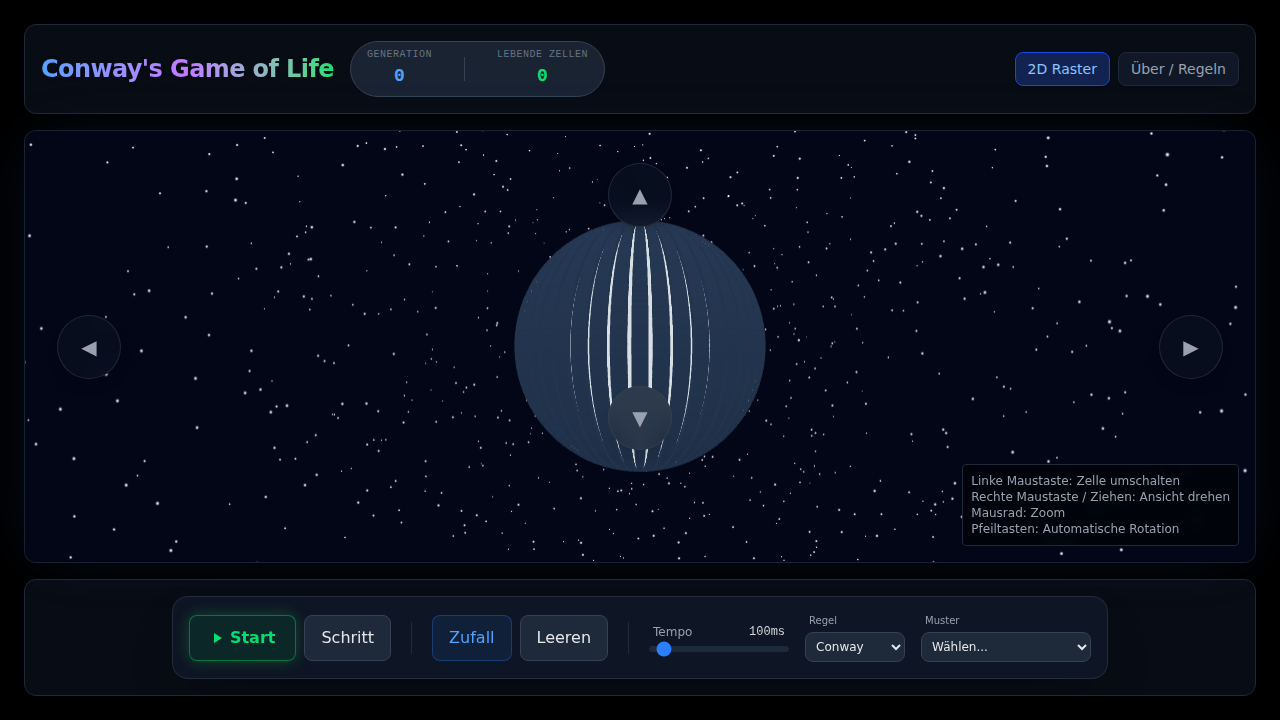
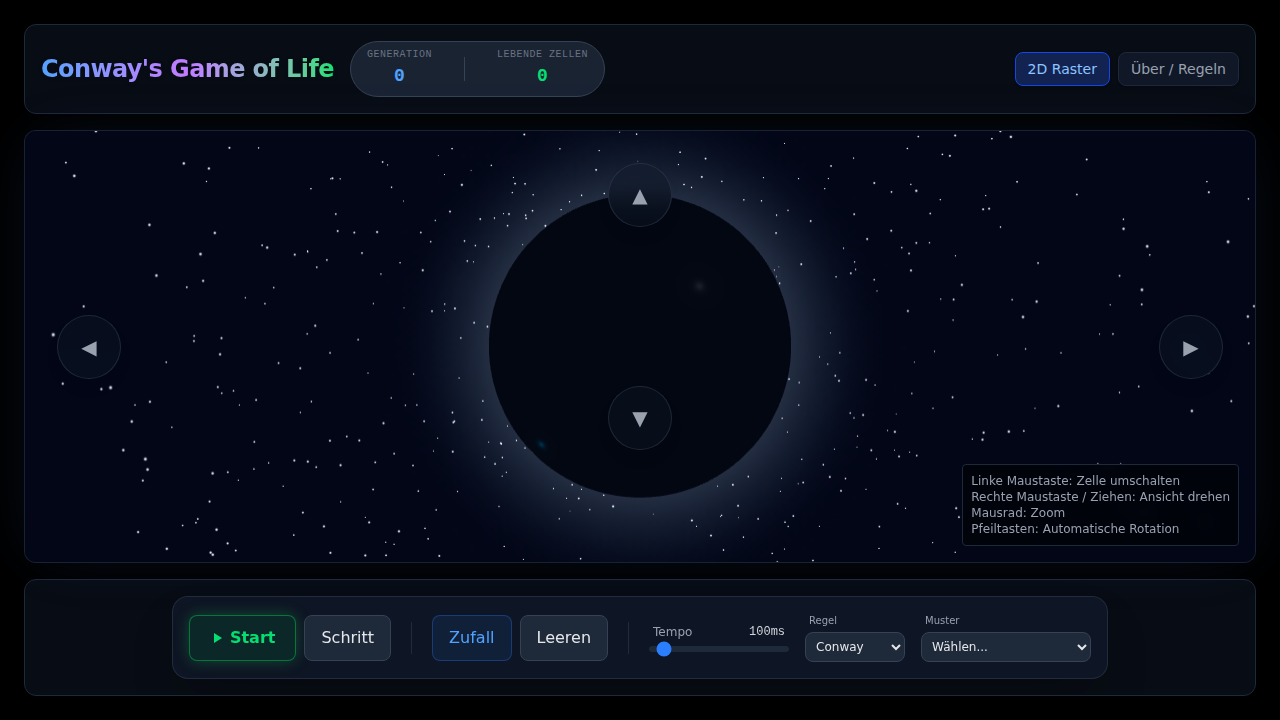
fix(sphere): refactor to textured sphere with backlight

Changed region(s): [[0.3438, 0.2139, 0.6562, 0.7333]]

diff --git a/game-of-life/src/components/SphereGrid.tsx b/game-of-life/src/components/SphereGrid.tsx
@@ -14,92 +14,70 @@ interface SphereGridProps {
 }
 
 const Sphere = ({ grid, setCell, velocity, rule }: SphereGridProps) => {
-  const meshRef = useRef<THREE.InstancedMesh>(null);
+  const meshRef = useRef<THREE.Mesh>(null);
   const groupRef = useRef<THREE.Group>(null);
 
   const rows = grid.length;
   const cols = rows > 0 ? grid[0].length : 0;
-  const count = rows * cols;
 
-  const tempObject = useMemo(() => new THREE.Object3D(), []);
-  const tempColor = useMemo(() => new THREE.Color(), []);
+  // Create Canvas for Texture
+  const { canvas, ctx, texture } = useMemo(() => {
+    const canvas = document.createElement('canvas');
+    // Set resolution to grid size for pixel-perfect mapping (with NearestFilter)
+    // We can upscale if we want smooth borders, but "Squares" implies sharp pixels.
+    // However, to draw grid lines, we might need higher resolution.
+    // User wants "connected raster". 1 pixel per cell = connected.
+    canvas.width = cols || 100;
+    canvas.height = rows || 50;
+    const ctx = canvas.getContext('2d', { alpha: false }); // No transparency needed for base
 
-  const radius = 2.5;
+    const texture = new THREE.CanvasTexture(canvas);
+    // Important for "Squares": Keep pixels sharp
+    texture.magFilter = THREE.NearestFilter;
+    texture.minFilter = THREE.NearestFilter;
+    texture.generateMipmaps = false; // Not needed for NearestFilter usually
 
-  // Box size calculation to approximate a continuous surface at the equator
-  // Circumference = 2 * PI * radius
-  // Cell width at equator = Circumference / cols
-  const boxSize = cols > 0 ? (2 * Math.PI * radius) / cols : 0.1;
+    return { canvas, ctx, texture };
+  }, [rows, cols]);
 
-  // Pattern detection logic
+  // Pattern Detection
   const patternGrid = useMemo(() => {
     if (!rule || rule.name !== 'Conway') return [];
-    // Limit detection to reasonable grid sizes for performance
     if (rows * cols > 50000) return [];
     return detectPatterns(grid);
   }, [grid, rows, cols, rule]);
 
-  // Initial Position & Scale Setup
+  // Draw to Canvas when Grid updates
   useEffect(() => {
-    if (!meshRef.current || rows === 0 || cols === 0) return;
+    if (!ctx || rows === 0 || cols === 0) return;
 
-    let idx = 0;
+    // Background (Dead Cells) - Dark slate blueish to match previous aesthetic
+    ctx.fillStyle = '#1e293b'; // slate-800
+    ctx.fillRect(0, 0, canvas.width, canvas.height);
+
+    // Live Cells
     for (let y = 0; y < rows; y++) {
       for (let x = 0; x < cols; x++) {
-        // Map Grid to Sphere
-        // phi: 0 to PI (North to South)
-        // theta: 0 to 2PI (Around)
-
-        const phi = (y / rows) * Math.PI;
-        const theta = (x / cols) * 2 * Math.PI;
-
-        // Position
-        tempObject.position.setFromSphericalCoords(radius, phi, theta);
-
-        // Rotation: Look away from center
-        tempObject.lookAt(0, 0, 0);
-
-        // Scale
-        // Scale down based on latitude to make them "smaller" at poles
-        // and reduce distortion.
-        const scale = Math.max(0.01, Math.sin(phi));
-        tempObject.scale.set(scale, scale, 1);
-
-        tempObject.updateMatrix();
-        meshRef.current.setMatrixAt(idx, tempObject.matrix);
-        idx++;
-      }
-    }
-    meshRef.current.instanceMatrix.needsUpdate = true;
-  }, [rows, cols, tempObject, radius]);
-
-  // Update Colors based on Grid State
-  useEffect(() => {
-    if (!meshRef.current || rows === 0 || cols === 0) return;
-
-    let idx = 0;
-    for (let y = 0; y < rows; y++) {
-      for (let x = 0; x < cols; x++) {
-        const isAlive = grid[y][x];
-        if (isAlive) {
-           const pattern = patternGrid[idx]; // idx matches y*cols+x order
-           // Use pattern color or default green
-           tempColor.set(pattern?.hex || '#22c55e');
+        if (grid[y][x]) {
+            const idx = y * cols + x;
+            const pattern = patternGrid[idx];
+            ctx.fillStyle = pattern?.hex || '#22c55e'; // Green or Pattern Color
+            // Draw 1x1 pixel
+            ctx.fillRect(x, y, 1, 1);
         } else {
-           // Dead Cells:
-           // User wants "bright shine behind".
-           // We set dead cells to a distinct color (slate-700) to form the "body" of the sphere,
-           // while gaps reveal the inner glowing sphere.
-           tempColor.set('#334155');
+            // Optional: Draw grid lines?
+            // Since we fill background, we could draw lines.
+            // But at 1px resolution, lines are impossible without sub-pixel (which means higher res).
+            // User asked for "closed connected raster".
+            // If we just draw pixels, they are connected.
+            // Let's stick to simple pixels first. "Squares" are inherent.
         }
-        meshRef.current.setColorAt(idx, tempColor);
-        idx++;
       }
     }
-    if (meshRef.current.instanceColor) {
-        meshRef.current.instanceColor.needsUpdate = true;
-    }
-  }, [grid, rows, cols, tempColor, patternGrid]);
+
+    texture.needsUpdate = true;
+  }, [grid, rows, cols, ctx, canvas, texture, patternGrid]);
+
 
   // Rotation Animation
   useFrame((_state, delta) => {
@@ -110,15 +88,11 @@ const Sphere = ({ grid, setCell, velocity, rule }: SphereGridProps) => {
          const speedLevelY = Math.abs(velocity.y);
          const directionY = Math.sign(velocity.y);
 
-         // Target: ~1 cell per second at speed level 1
          const radiansPerCell = (2 * Math.PI) / cols;
 
-         // X-Axis Velocity (Left/Right Arrows) -> Y-Axis Rotation
-         // If velocity > 0 (Right Arrow), we want the view to shift such that items move Left.
-         // Rotating the world -Y (Clockwise looking from top) makes front items move Left.
+         // X-Axis Velocity -> Y-Axis Rotation
          const rotationSpeedY = -directionX * radiansPerCell * speedLevelX * delta;
-
-         // Y-Axis Velocity (Up/Down Arrows) -> X-Axis Rotation
+         // Y-Axis Velocity -> X-Axis Rotation
          const rotationSpeedX = -directionY * radiansPerCell * speedLevelY * delta;
 
          groupRef.current.rotation.y += rotationSpeedY;
@@ -128,64 +102,104 @@ const Sphere = ({ grid, setCell, velocity, rule }: SphereGridProps) => {
 
   const handlePointerDown = (e: ThreeEvent<PointerEvent>) => {
     e.stopPropagation();
-    // Only left click
-    if (e.button === 0 && e.instanceId !== undefined) {
-        const idx = e.instanceId;
-        const y = Math.floor(idx / cols);
-        const x = idx % cols;
+    // Calculate Grid Coordinates from UV
+    if (e.uv && cols > 0 && rows > 0) {
+        // UV: (0,0) is usually bottom-left
+        // Canvas: (0,0) is top-left
+        // Texture mapping on Sphere:
+        // u = 0..1 (around equator) -> x
+        // v = 0..1 (south to north) -> y (inverted?)
+
+        // Let's assume standard UV sphere mapping:
+        // u goes 0->1 around.
+        // v goes 0 (bottom) -> 1 (top).
+
+        // Our grid[0] is top row.
+        // So y = (1 - v) * rows.
+
+        // Shift x by 0.25 (90 deg) because sphere textures start at a specific angle?
+        // Usually standard sphere u=0 is at +Z or -Z.
+        // We can just rely on visual clicking.
+
+        const x = Math.floor(e.uv.x * cols) % cols;
+        const y = Math.floor((1 - e.uv.y) * rows) % rows; // Invert Y to match canvas top-down
+
         if (x >= 0 && x < cols && y >= 0 && y < rows) {
             setCell(x, y, !grid[y][x]);
         }
     }
   };
 
+  const radius = 2.8; // Slightly larger sphere
+
   return (
     <group ref={groupRef}>
-        {/* Inner Sphere for Background Glow/Contrast */}
-        {/* increased radius (0.99) and brighter color for stronger backlight effect */}
-        <mesh>
-            <sphereGeometry args={[radius * 0.99, 64, 64]} />
-            <meshBasicMaterial color="#e0f2fe" side={THREE.BackSide} />
-            {/* Added BackSide so looking *through* it from inside works too, though mainly FrontSide is seen */}
-        </mesh>
-
-        {/* Duplicate inner sphere just in case BackSide isn't enough for gaps? No, standard is fine. */}
-        <mesh>
-            <sphereGeometry args={[radius * 0.99, 64, 64]} />
-            <meshBasicMaterial color="#e0f2fe" />
-        </mesh>
-
-        <instancedMesh
+        <mesh
             ref={meshRef}
-            args={[undefined, undefined, count]}
             onPointerDown={handlePointerDown}
+            rotation={[0, -Math.PI / 2, 0]} // Rotate to align texture seam if needed
         >
-            {/* Reduced box size to 0.8 to let more inner glow shine through gaps */}
-            <boxGeometry args={[boxSize * 0.8, boxSize * 0.8, 0.1]} />
-            {/* StandardMaterial for better lighting response, but relying on strong ambient light for glow */}
-            <meshStandardMaterial roughness={0.4} metalness={0.1} />
-        </instancedMesh>
+            <sphereGeometry args={[radius, 64, 64]} />
+            <meshStandardMaterial
+                map={texture}
+                roughness={0.2}
+                metalness={0.1}
+                emissive="#000000"
+            />
+        </mesh>
     </group>
   );
+};
+
+// Simple Glow Texture Component
+const Glow = () => {
+    const texture = useMemo(() => {
+        const canvas = document.createElement('canvas');
+        canvas.width = 128;
+        canvas.height = 128;
+        const ctx = canvas.getContext('2d');
+        if (ctx) {
+            const gradient = ctx.createRadialGradient(64, 64, 0, 64, 64, 64);
+            gradient.addColorStop(0, 'rgba(255, 255, 255, 0.5)'); // Bright center
+            gradient.addColorStop(0.4, 'rgba(186, 230, 253, 0.3)'); // Blueish mid
+            gradient.addColorStop(1, 'rgba(0, 0, 0, 0)'); // Fade out
+            ctx.fillStyle = gradient;
+            ctx.fillRect(0, 0, 128, 128);
+        }
+        return new THREE.CanvasTexture(canvas);
+    }, []);
+
+    return (
+        <mesh position={[0, 0, -4]}>
+            <planeGeometry args={[15, 15]} />
+            <meshBasicMaterial
+                map={texture}
+                transparent
+                depthWrite={false}
+                blending={THREE.AdditiveBlending}
+            />
+        </mesh>
+    );
 };
 
 export const SphereGrid = ({ grid, setCell, velocity, rule }: SphereGridProps) => {
   return (
     <div className="w-full h-full bg-gray-950 relative">
-        <Canvas camera={{ position: [0, 0, 8], fov: 60 }}>
+        <Canvas camera={{ position: [0, 0, 9], fov: 50 }}>
             <color attach="background" args={['#020617']} />
 
-            {/* Lighting Setup: High intensity to ensure colors pop (no dark sides) */}
-            <ambientLight intensity={3.0} />
-            <hemisphereLight args={['#ffffff', '#000000', 1.0]} />
+            <ambientLight intensity={1.5} />
             <pointLight position={[10, 10, 10]} intensity={2.0} />
-            <pointLight position={[-10, -10, -5]} intensity={1.5} color="#38bdf8" />
+            <pointLight position={[-10, -10, -5]} intensity={1.0} color="#38bdf8" />
+
+            {/* The Backlight Glow */}
+            <Glow />
 
             <Stars radius={100} depth={50} count={5000} factor={4} saturation={0} fade speed={1} />
 
             <Sphere grid={grid} setCell={setCell} velocity={velocity} rule={rule} />
 
-            <OrbitControls enablePan={false} minDistance={3.5} maxDistance={12} />
+            <OrbitControls enablePan={false} minDistance={4} maxDistance={15} />
         </Canvas>
 
         <div className="absolute bottom-4 right-4 pointer-events-none bg-black/50 backdrop-blur text-[10px] md:text-xs text-gray-400 p-2 rounded border border-gray-800 z-10 hidden md:block">
